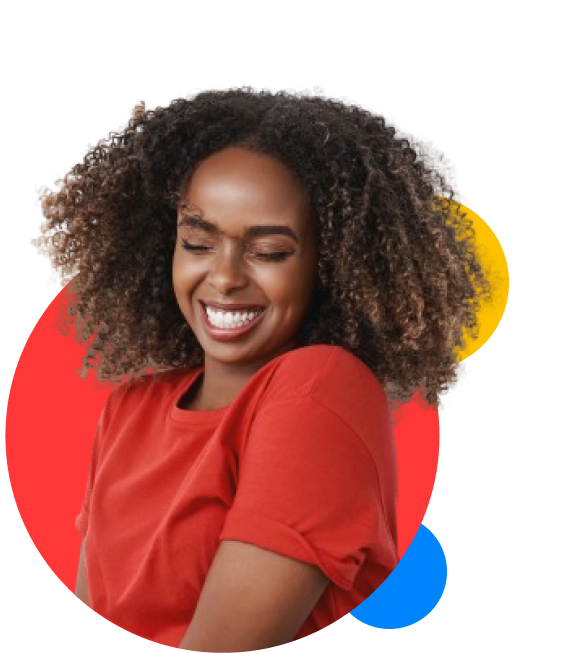
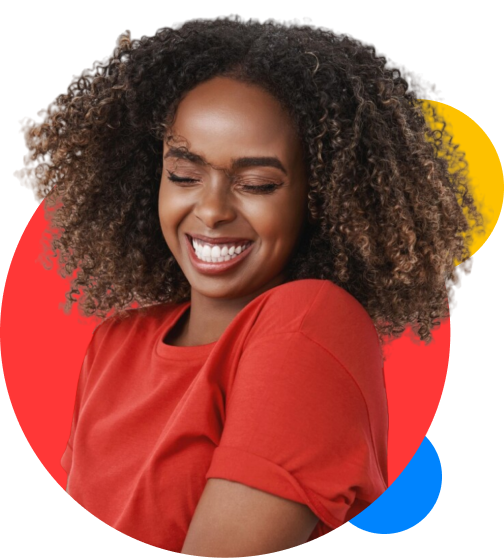
feat: added vehicle categories

diff --git a/pages/index.vue b/pages/index.vue
@@ -1,7 +1,7 @@
 <template>
   <header class="hero-section h-screen">
     <div class="container mx-auto flex flex-col-reverse md:flex-row md:justify-between items-center">
-      <div class="pt-[230px]">
+      <div class="pt-[170px]">
         <p class="font-black mb-3 text-md"><span class="text-primary">_</span>CERTIFIED USED CAR DEALER</p>
         <h1 class="hero-heading">Your <span class="text-primary">Dream</span> Car, <br/> Directly from <span class="text-primary">Japan</span></h1>
         <h2 class="hero-subheading">Volt Auto is the most trusted and reliable source of used vehicles from Japan, shop in convenience and comfort.</h2>
@@ -10,9 +10,9 @@
         </div>
       </div>
       <div class="flex justify-center items-center relative">
-        <img class="absolute h-[72px] top-[350px] right-[-10px]" src="~/assets/images/auction-box.png" alt="Auctions"/>
-        <img class="absolute h-[72px] top-[450px] right-[300px]" src="~/assets/images/vehicle-box.png" alt="Vehicles"/>
-        <img class="max-h-[550px]" src="~/assets/images/hero-image.png" alt="Hero Image"/>
+        <img class="absolute h-[72px] top-[280px] right-[-10px]" src="~/assets/images/auction-box.png" alt="Auctions"/>
+        <img class="absolute h-[72px] top-[350px] right-[260px]" src="~/assets/images/vehicle-box.png" alt="Vehicles"/>
+        <img class="max-h-[440px]" src="~/assets/images/hero-image.png" alt="Hero Image"/>
       </div>
     </div>
   </header>
@@ -37,13 +37,13 @@
   <section class="container mx-auto ">
     <h2 class="sub-heading">Shop By Vehicle Type</h2>
     <p class="my-3">Shop from vehicles with a financing option that suites your needs.</p>
-    <div class="grid grid-cols-4 my-5 gap-6">
-      <price-box v-for="{price, linkUrl} in prices" :price="price" :link-url="linkUrl"/>
+    <div class="grid grid-cols-3 my-5 gap-6">
+      <vehicle-category-box v-for="{title, type, image} in vehicleCategories" :title="title" :type="type" :image="image"/>
     </div>
   </section>
   <section class="bg-light-grey">
     <div class="container mx-auto">
-      <h1 class="sub-heading font-display my-5 text-center">What customers are saying</h1>
+      <h1 class="sub-heading font-display my-5 text-center">Testimonials</h1>
       <carousel/>
     </div>
   </section>
@@ -113,6 +113,38 @@ export default {
         {
           price: "$90,000",
           linkUrl: "https://app.voltauto.io?min_price=90000"
+        },
+      ],
+      vehicleCategories:[
+        {
+          title: "Sedans",
+          type: "Sedan",
+          image: "sedan.png",
+        },
+        {
+          title: "Hatchbacks",
+          type: "Hatchback",
+          image: "hatchback.png",
+        },
+        {
+          title: "Wagons",
+          type: "Wagon",
+          image: "wagon.png",
+        },
+        {
+          title: "Vans",
+          type: "Van",
+          image: "van.png",
+        },
+        {
+          title: "SUVs",
+          type: "SUV",
+          image: "suv.png",
+        },
+        {
+          title: "Pick Ups",
+          type: "Pick%20Ups",
+          image: "pick-up.png",
         },
       ]
     }

diff --git a/components/VehicleCategoryBox.vue b/components/VehicleCategoryBox.vue
@@ -1,0 +1,32 @@
+<template>
+  <div class="vehicle-category-box">
+    <a :href="'https://app.voltauto.io?vehicleCategory=' + type" target="_blank" rel="noreferrer noopener">
+      <img :src="'/images/' + image" :alt="type">
+      <p class="text-[22px] mb-1">{{ title }}</p>
+    </a>
+  </div>
+</template>
+
+<script>
+export default {
+  name: "VehicleCategoryBox",
+  props: {
+    type: String,
+    image: String,
+    title: String
+  }
+};
+</script>
+
+<style>
+.vehicle-category-box {
+  @apply flex;
+  @apply cursor-pointer;
+  @apply items-center  justify-center text-center;
+  @apply px-8 py-10 my-3 bg-white;
+  border-radius: 11px;
+  border: 1px solid #D4D4D4;
+  color: #2B2B2B;
+  font-family: "CamptonBold", sans-serif;
+}
+</style>

diff --git a/components/Footer.vue b/components/Footer.vue
@@ -45,7 +45,7 @@
 </template>
 <style scoped>
 footer {
-    background:#202020;
+    background:#041022;
     color: #ffffff;
     @apply pt-28 pb-8;  
     @apply font-bold;
